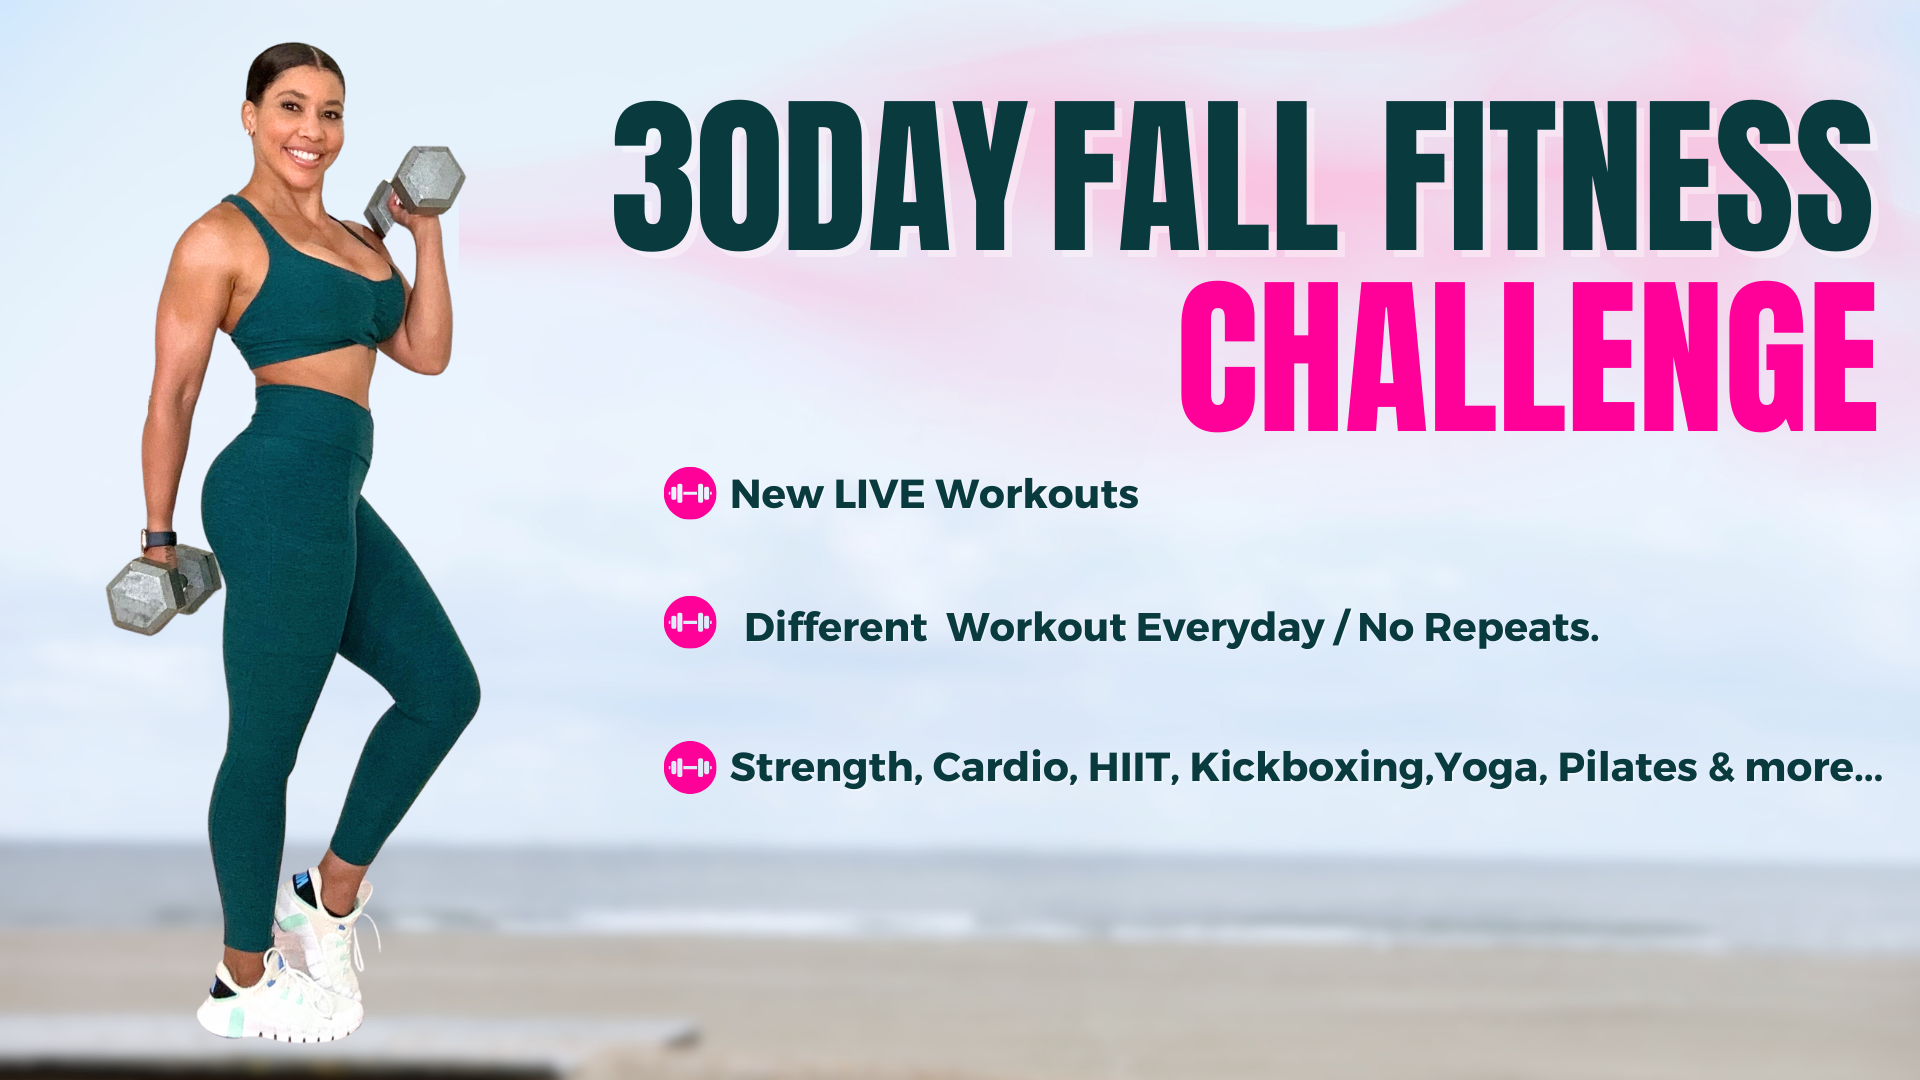
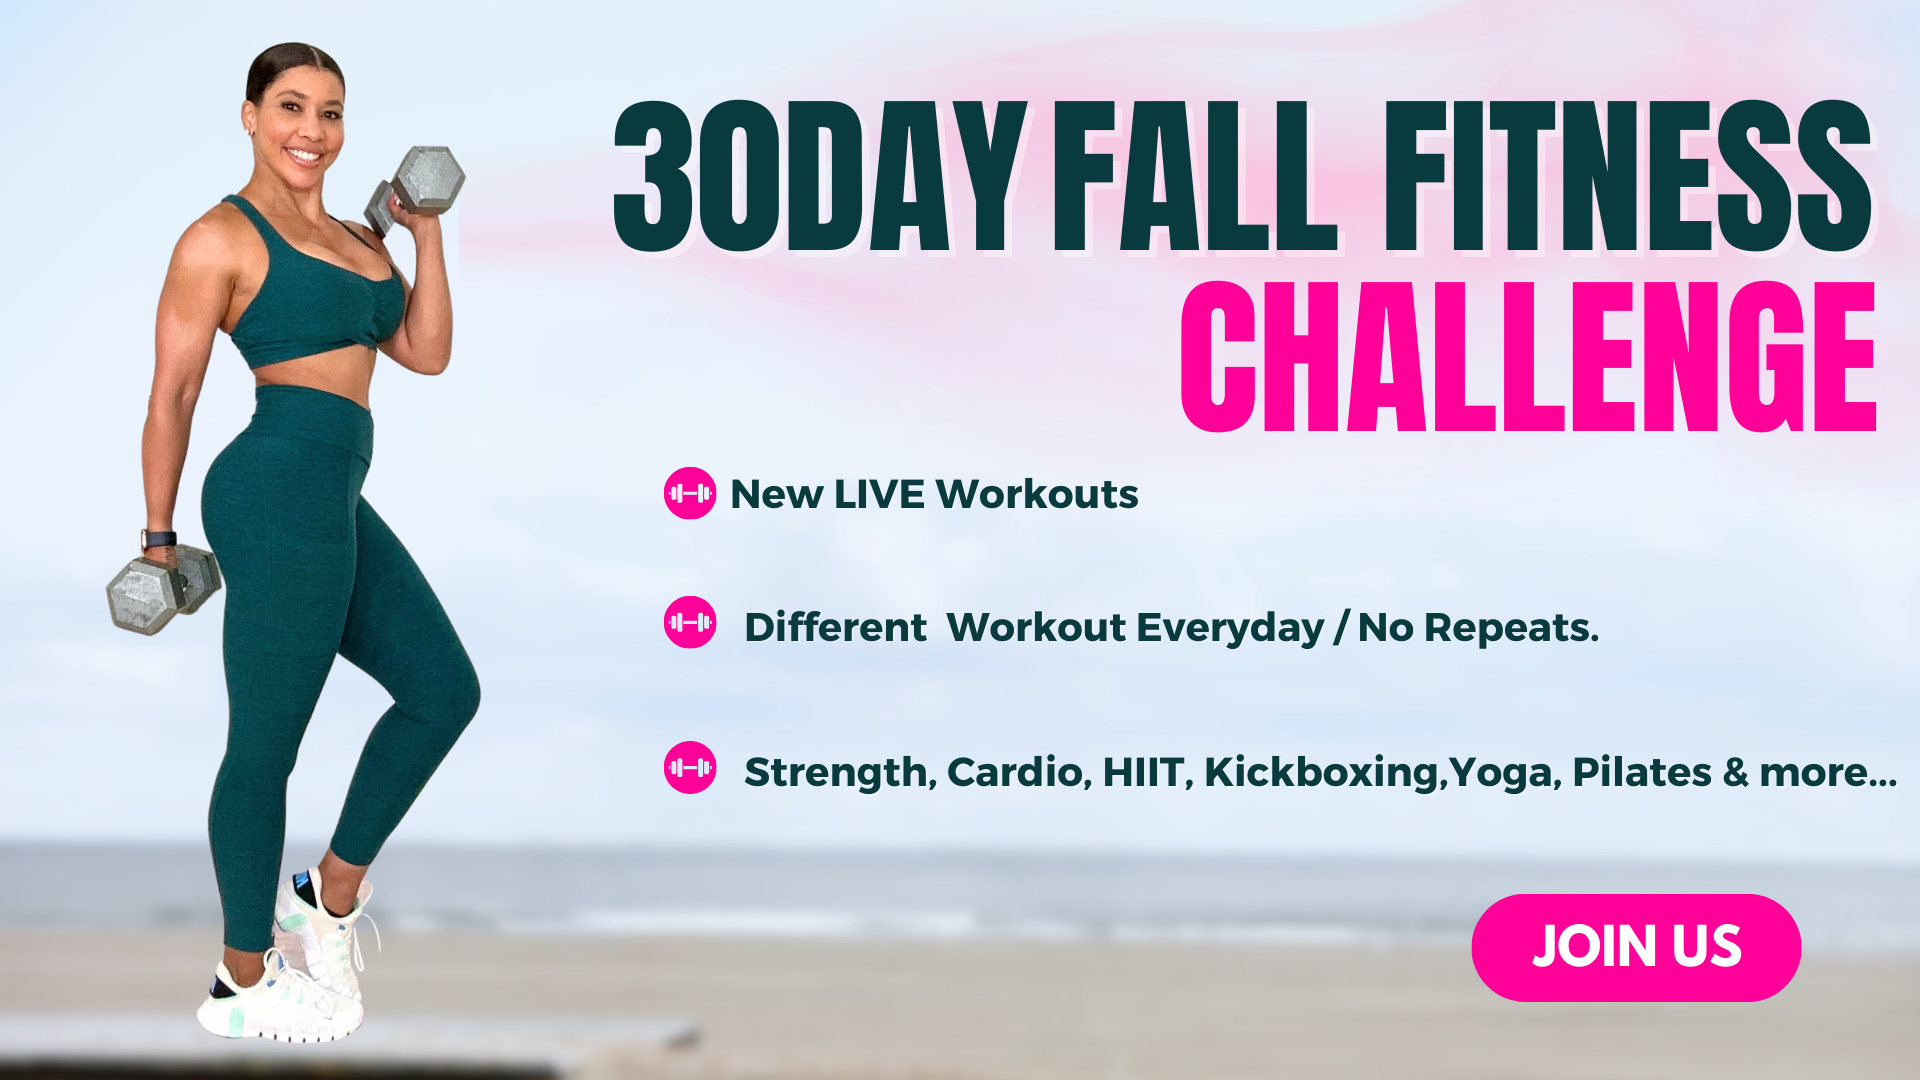
04-10 time clock

Changed region(s): [[0.75, 0.825, 0.9375, 0.9472], [0.375, 0.6722, 1.0, 0.7333]]

diff --git a/css/style.css b/css/style.css
@@ -494,12 +494,15 @@ ul {
   margin-bottom: 0px;
 }
 .subscribe-dec h2 {
-  color: #fe018a;
-  font-size: 185px;
+  color: #fff;
+  font-size: 110px;
   font-family: Inter-Bold;
-  margin-bottom: 0px;
-  margin-top: 30px;
+  margin-bottom: 70px;
+  margin-top: 70px;
   text-transform: uppercase;
+}
+.subscribe-dec h2 span {
+  color: #fe018a;
 }
 .subscribe-dec h3 {
   font-size: 55px;
@@ -556,6 +559,9 @@ ul {
 
 @media only screen and (max-width: 1400px) {
   .subscribe-dec h1 {
+    font-size: 60px;
+  }
+  .subscribe-dec h2 {
     font-size: 80px;
   }
 }
@@ -609,6 +615,12 @@ ul {
 @media only screen and (max-width: 992px) {
   .section-gab {
     padding: 50px 0px 0px;
+  }
+  .subscribe-dec h1 {
+    font-size: 40px;
+  }
+  .subscribe-dec h2 {
+    font-size: 60px;
   }
   .header-section .sec-img {
     width: 80%;
@@ -769,11 +781,12 @@ ul {
     border: none;
   }
   .subscribe-dec h1 {
-    font-size: 50px;
+    font-size: 30px;
   }
   .subscribe-dec h2 {
-    color: #fe018a;
-    font-size: 95px;
+    font-size: 45px;
+    margin-bottom: 50px;
+    margin-top: 50px;
   }
   .subscribe-dec h3 {
     font-size: 40px;
@@ -973,11 +986,10 @@ ul {
     margin-bottom: 20px;
   }
   .subscribe-dec h1 {
-    font-size: 44px;
+    font-size: 25px;
   }
   .subscribe-dec h2 {
-    color: #fe018a;
-    font-size: 80px;
+    font-size: 33px;
   }
   .subscribe-dec h3 {
     font-size: 30px;
@@ -1023,10 +1035,12 @@ ul {
 
 @media only screen and (max-width: 374px) {
   .subscribe-dec h2 {
-    font-size: 60px;
+    font-size: 27px;
+    margin-bottom: 40px;
+    margin-top: 40px;
   }
   .subscribe-dec h1 {
-    font-size: 36px;
+    font-size: 25px;
   }
   .bootcamp-section .head-title h1,
   .head-title h1 {

diff --git a/index.html b/index.html
@@ -636,15 +636,15 @@
             data-wow-duration="0.4s"
             data-wow-delay="0.3s"
           >
-            30Day
+            <span>30Day</span> Fall Fitness Challenge
           </h2>
-          <h3
+          <!-- <h3
             class="wow fadeInUp"
             data-wow-duration="0.5s"
             data-wow-delay="0.3s"
           >
             Fall Fitness Challenge
-          </h3>
+          </h3> -->
           <!-- <p
             class="wow fadeInUp"
             data-wow-duration="0.6s"
@@ -765,8 +765,8 @@
     <!-- END-wow-animation -->
     <!-- countdown -->
     <script>
-      // Set the date and time for the countdown (July 15th, 2023 at 23:00 PST) October 10th at 23:45 PST
-      var countDownDate = new Date("October 10, 2023 23:45:00 PST").getTime();
+      // Set the date and time for the countdown (October 10th at 23:45 PST)
+      var countDownDate = new Date("October 10, 2023 22:45:00 PST").getTime();
 
       // Update the countdown every second
       var countdownClock = setInterval(function () {
